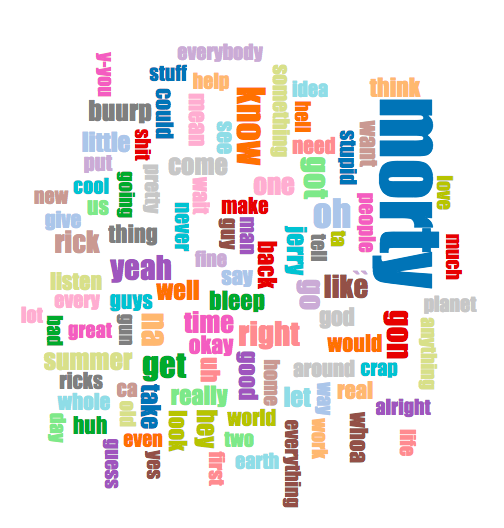
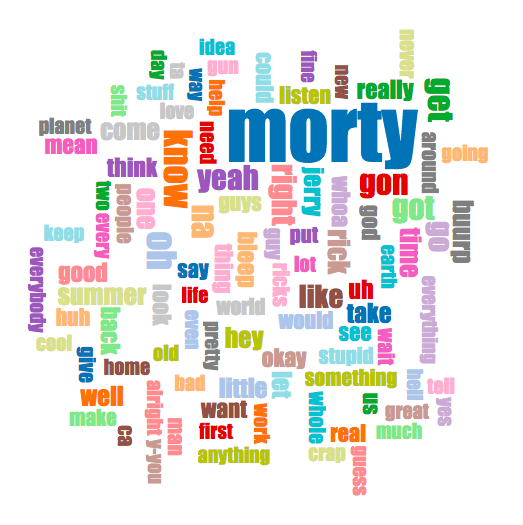
update word cloud frequencies

diff --git a/word_cloud/bethfreq.js b/word_cloud/bethfreq.js
@@ -25,7 +25,6 @@ gword =[{text: 'jerry', size: 80.0},
 {text: 'god', size: 25.806451612903224},
 {text: 'love', size: 25.806451612903224},
 {text: 'say', size: 25.806451612903224},
-{text: '``', size: 25.806451612903224},
 {text: 'never', size: 25.806451612903224},
 {text: 'life', size: 24.838709677419356},
 {text: 'yeah', size: 24.838709677419356},
@@ -97,5 +96,6 @@ gword =[{text: 'jerry', size: 80.0},
 {text: 'nice', size: 20.0},
 {text: 'whole', size: 20.0},
 {text: 'sure', size: 20.0},
-{text: 'together', size: 20.0}
+{text: 'together', size: 20.0},
+{text: 'something', size: 20.0}
 ];

diff --git a/word_cloud/jerryfreq.js b/word_cloud/jerryfreq.js
@@ -7,7 +7,6 @@ gword =[{text: 'well', size: 80.0},
 {text: 'hey', size: 57.89473684210526},
 {text: 'uh', size: 56.31578947368421},
 {text: 'beth', size: 54.73684210526316},
-{text: '``', size: 51.578947368421055},
 {text: 'got', size: 51.578947368421055},
 {text: 'yeah', size: 48.421052631578945},
 {text: 'right', size: 48.421052631578945},
@@ -97,5 +96,6 @@ gword =[{text: 'well', size: 80.0},
 {text: 'first', size: 20.0},
 {text: 'whatever', size: 20.0},
 {text: 'apples', size: 20.0},
-{text: 'different', size: 20.0}
+{text: 'different', size: 20.0},
+{text: 'happened', size: 20.0}
 ];

diff --git a/word_cloud/rickfreq.js b/word_cloud/rickfreq.js
@@ -23,7 +23,6 @@ gword =[{text: 'morty', size: 80.0},
 {text: 'little', size: 25.226480836236934},
 {text: 'bleep', size: 24.808362369337978},
 {text: 'think', size: 24.494773519163765},
-{text: '``', size: 24.285714285714285},
 {text: 'really', size: 24.181184668989545},
 {text: 'back', size: 24.181184668989545},
 {text: 'uh', size: 24.181184668989545},
@@ -97,5 +96,6 @@ gword =[{text: 'morty', size: 80.0},
 {text: 'ta', size: 20.0},
 {text: 'anything', size: 20.0},
 {text: 'crap', size: 20.0},
-{text: 'idea', size: 20.0}
+{text: 'idea', size: 20.0},
+{text: 'keep', size: 20.0}
 ];

diff --git a/word_cloud/test.js b/word_cloud/test.js
@@ -23,7 +23,6 @@ gword =[{text: 'morty', size: 80.0},
 {text: 'little', size: 25.226480836236934},
 {text: 'bleep', size: 24.808362369337978},
 {text: 'think', size: 24.494773519163765},
-{text: '``', size: 24.285714285714285},
 {text: 'really', size: 24.181184668989545},
 {text: 'back', size: 24.181184668989545},
 {text: 'uh', size: 24.181184668989545},
@@ -97,5 +96,6 @@ gword =[{text: 'morty', size: 80.0},
 {text: 'ta', size: 20.0},
 {text: 'anything', size: 20.0},
 {text: 'crap', size: 20.0},
-{text: 'idea', size: 20.0}
+{text: 'idea', size: 20.0},
+{text: 'keep', size: 20.0}
 ];

diff --git a/word_cloud/mortyfreq.js b/word_cloud/mortyfreq.js
@@ -29,7 +29,6 @@ gword =[{text: 'rick', size: 80.0},
 {text: 'whoa', size: 24.581818181818182},
 {text: 'um', size: 24.363636363636363},
 {text: 'time', size: 24.363636363636363},
-{text: '``', size: 23.92727272727273},
 {text: 'ca', size: 23.70909090909091},
 {text: 'i-i', size: 23.70909090909091},
 {text: 'come', size: 23.490909090909092},
@@ -97,5 +96,6 @@ gword =[{text: 'rick', size: 80.0},
 {text: 'need', size: 20.0},
 {text: 'anything', size: 20.0},
 {text: 'real', size: 20.0},
-{text: 'bad', size: 20.0}
+{text: 'bad', size: 20.0},
+{text: 'parents', size: 20.0}
 ];

diff --git a/word_cloud/summerfreq.js b/word_cloud/summerfreq.js
@@ -10,7 +10,6 @@ gword =[{text: 'oh', size: 80.0},
 {text: 'go', size: 38.46153846153847},
 {text: 'know', size: 36.15384615384615},
 {text: 'get', size: 36.15384615384615},
-{text: '``', size: 35.0},
 {text: 'okay', size: 35.0},
 {text: 'mom', size: 35.0},
 {text: 'want', size: 31.53846153846154},
@@ -97,5 +96,6 @@ gword =[{text: 'oh', size: 80.0},
 {text: 'mean', size: 21.153846153846153},
 {text: 'tiny', size: 21.153846153846153},
 {text: 'put', size: 21.153846153846153},
-{text: 'trying', size: 20.0}
+{text: 'trying', size: 20.0},
+{text: 'man', size: 20.0}
 ];
